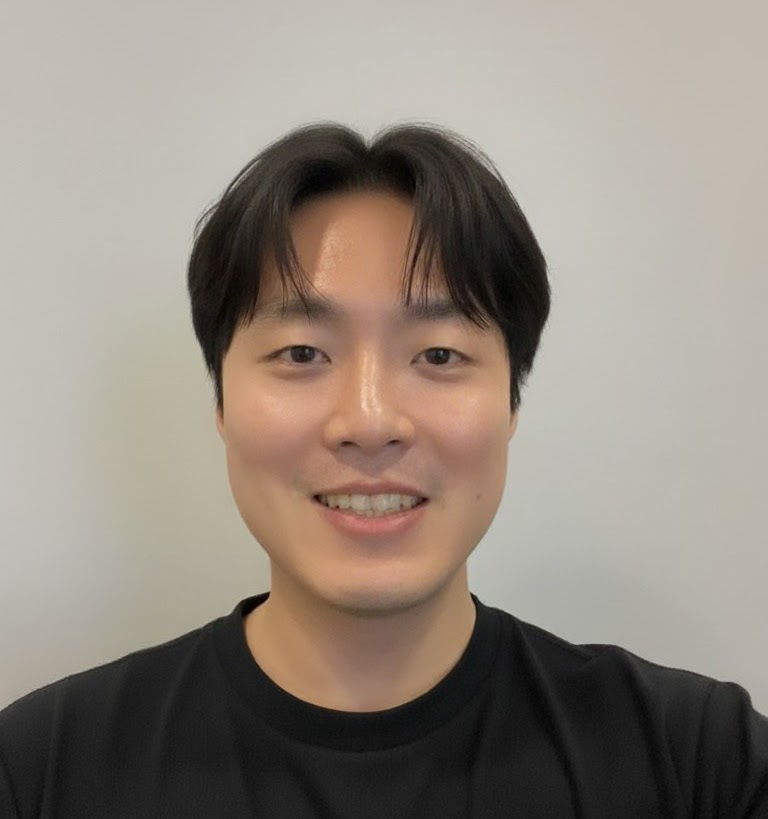
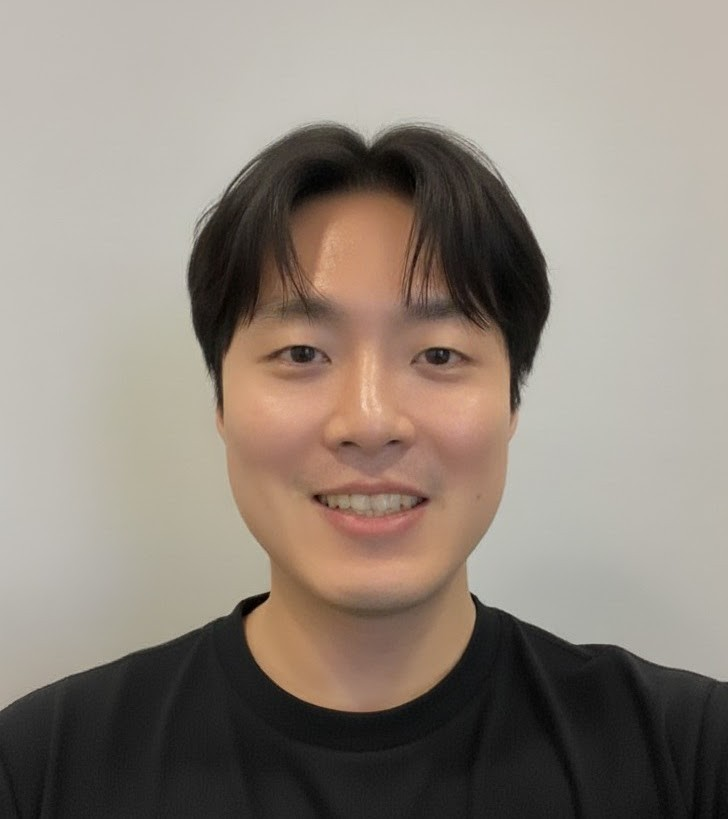
update

diff --git a/index.html b/index.html
@@ -708,7 +708,7 @@
             </thead>
             <tbody>
               <tr>
-                <td class="time">8:30 - 8:40</td>
+                <td class="time">8:30 - 8:35</td>
                 <td class="programme">
                   <p class="title mb-0">Opening Remark: Motivation and Overview <span class="abstract-toggle" data-bs-toggle="collapse" data-bs-target="#abstract-1" aria-expanded="false" aria-controls="abstract-1">[Abstract]</span></p>
                   <div class="collapse mt-2" id="abstract-1">
@@ -723,7 +723,7 @@
               </tr>
 
               <tr>
-                <td class="time">8:40 - 9:00</td>
+                <td class="time">8:35 - 9:00</td>
                 <td class="programme">
                   <p class="title mb-0">Video-TT Challenge: Towards Advanced Video Reasoning and Understanding <span class="abstract-toggle" data-bs-toggle="collapse" data-bs-target="#abstract-2" aria-expanded="false" aria-controls="abstract-2">[Abstract]</span></p>
                   <div class="collapse mt-2" id="abstract-2">
